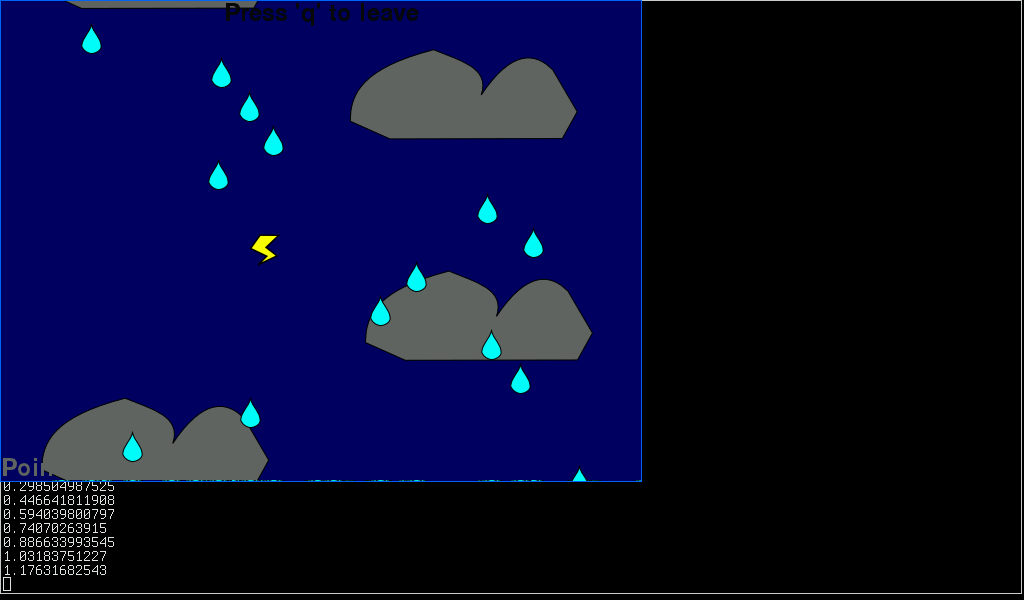
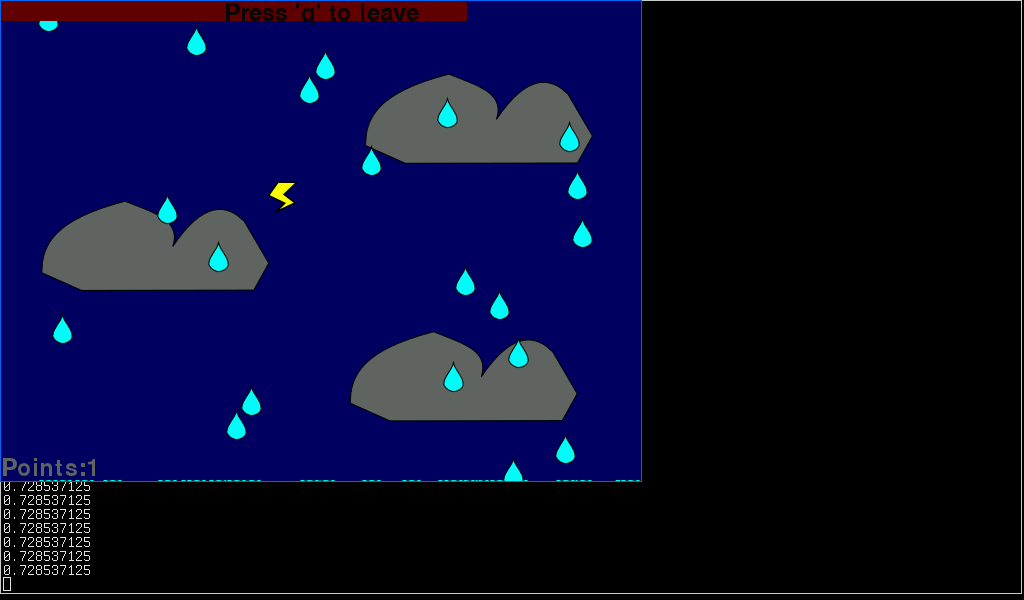
More game mechanics, HUD

diff --git a/src/main.py b/src/main.py
@@ -9,6 +9,11 @@ tile_side = 32
 max_droplets = 100
 max_fps = 40
 max_droplets_per_second = 2
+air_conductivity_loss_factor = 0.95
+air_conductivity_loss_linear_term = 0.01
+energy_leaks_fps = 1
+game_initial_speed = 5
+game_max_speed = 50
 
 images_path = "../images/"
 
@@ -76,6 +81,7 @@ class HeroLighning(Actor):
 	def __init__(self,_image):
 		self.maxspeed = 400
 		Actor.__init__(self,_image, Vector((0,0)))
+		self.energy = 1 #this is %
 
 	def limitSpeed(self):
 		if ( self.velocity.mod() > self.maxspeed ):
@@ -86,6 +92,8 @@ class HeroLighning(Actor):
 		self.limitSpeed()
 		Particle.actualize(self)
 		self.limitPosition()
+
+		print self.energy
 
 class Droplet(Actor):
 	def __init__(self,_image,_x, _speed):
@@ -120,11 +128,12 @@ class HUD:
 		self.text = self.font.render("Press 'q' to leave", 1, (10, 10, 10))
 		self.textpos = self.text.get_rect(centerx=width/2)
 
-	def draw(self,surface,_n):
-		points = self.font.render("Points:"+ str(_n),1,(100,100,100))
-		surface.blit(self.text, self.textpos)
+	def draw(self,surface,_points,_energy):
+		points = self.font.render("Points:"+ str(_points),1,(100,100,100))
 		pos = points.get_rect(bottomleft=(0,height))
 		surface.blit(points, pos)
+		surface.fill((100,0,0), pygame.Rect(0,0,width*_energy,20) )
+		surface.blit(self.text, self.textpos)
 
 def quit():
 	print "OK, bye."
@@ -143,7 +152,7 @@ if __name__ == "__main__":
 	dropletImage = pygame.image.load(images_path+'drop.png')#.convert()
 
 	#game data
-	gameSpeed = 1;
+	gameSpeed = game_initial_speed;
 	nCollisions = 0; #how many collisions have ocurred
 
 	#some background
@@ -154,6 +163,7 @@ if __name__ == "__main__":
 
 	#HUD
 	hud =HUD()
+	leaksClock = 0
 
 	#droplets
 	droplets = []
@@ -163,17 +173,22 @@ if __name__ == "__main__":
 	pygame.event.set_grab(True)
 	pygame.mouse.set_visible(False)
 
-	while 1:
+	while (lightning.energy > 0 ):
 		clock.tick(max_fps)
 		for event in pygame.event.get():
 			if event.type == pygame.QUIT:
 				quit()
 			elif event.type == pygame.MOUSEMOTION:
-				#print "Mouse Motion", event.rel
 				lightning.velocity.set(event.rel)
 			elif event.type == pygame.KEYDOWN:
 				if event.unicode == 'q':
 					quit()
+
+		leaksClock += clock.get_time()
+		if (leaksClock > 1000/energy_leaks_fps):
+			leaksClock = 0
+			lightning.energy *= air_conductivity_loss_factor
+			lightning.energy -= air_conductivity_loss_linear_term
 
 		lightning.actualize()
 		background.actualize()
@@ -202,8 +217,7 @@ if __name__ == "__main__":
 			if lightning.rect.colliderect(droplet.rect):
 				droplet.rect.y = -tile_side;
 				nCollisions += 1
-				gameSpeed = 30*(1.-math.exp(-nCollisions*0.005))
-				print gameSpeed
+				gameSpeed = game_initial_speed+(game_max_speed-game_initial_speed)*(1.-math.exp(-nCollisions*0.005))
 
 
 		#screen.fill( (0,0,0) )
@@ -220,7 +234,7 @@ if __name__ == "__main__":
 
 		##################################################################
 		# HUD update 
-		hud.draw(screen,nCollisions)
+		hud.draw(screen,nCollisions,lightning.energy)
 		#screen.blit(lightning.image, lightning.rect)
 		lightning.draw(screen)
 		pygame.display.flip()
